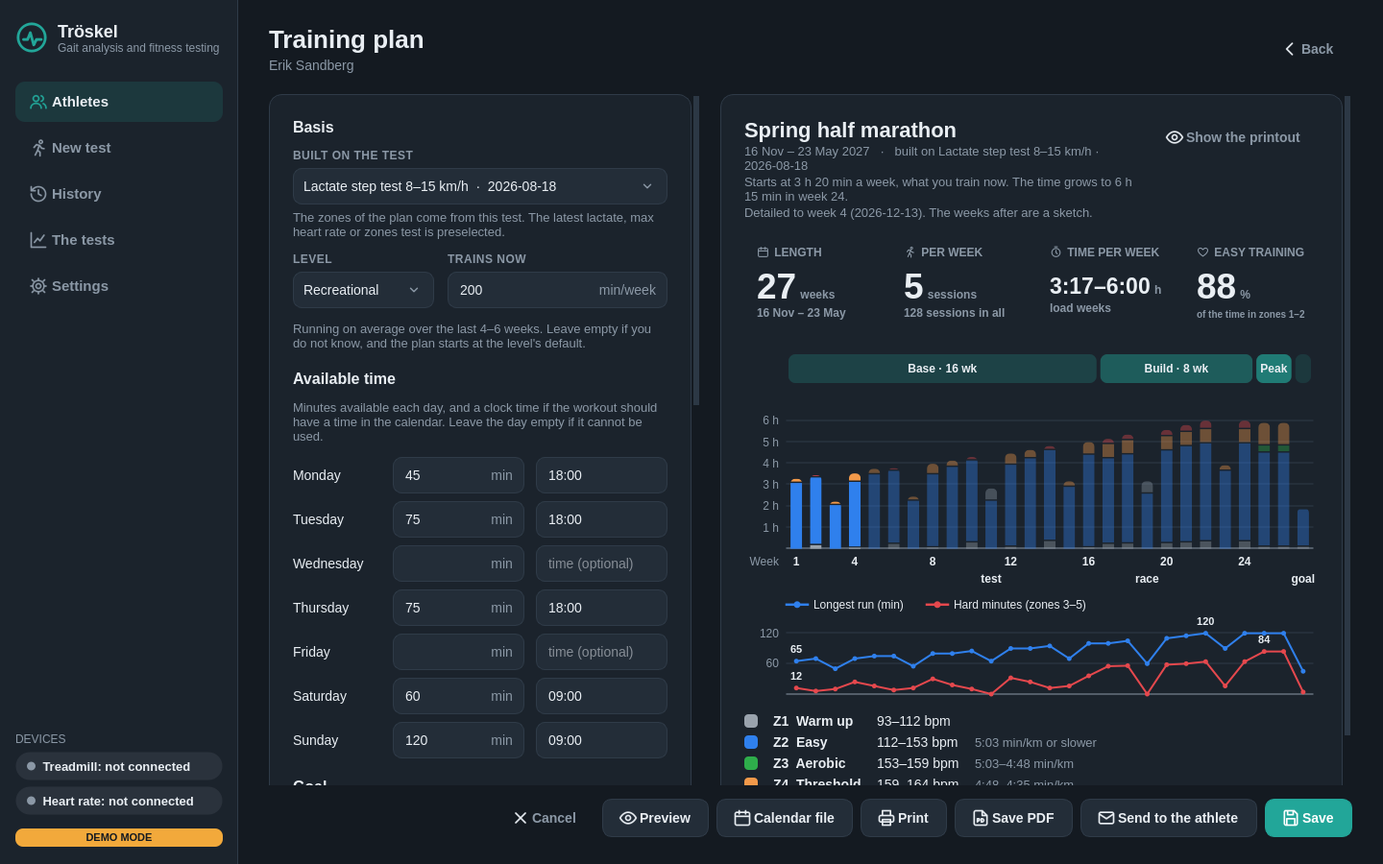
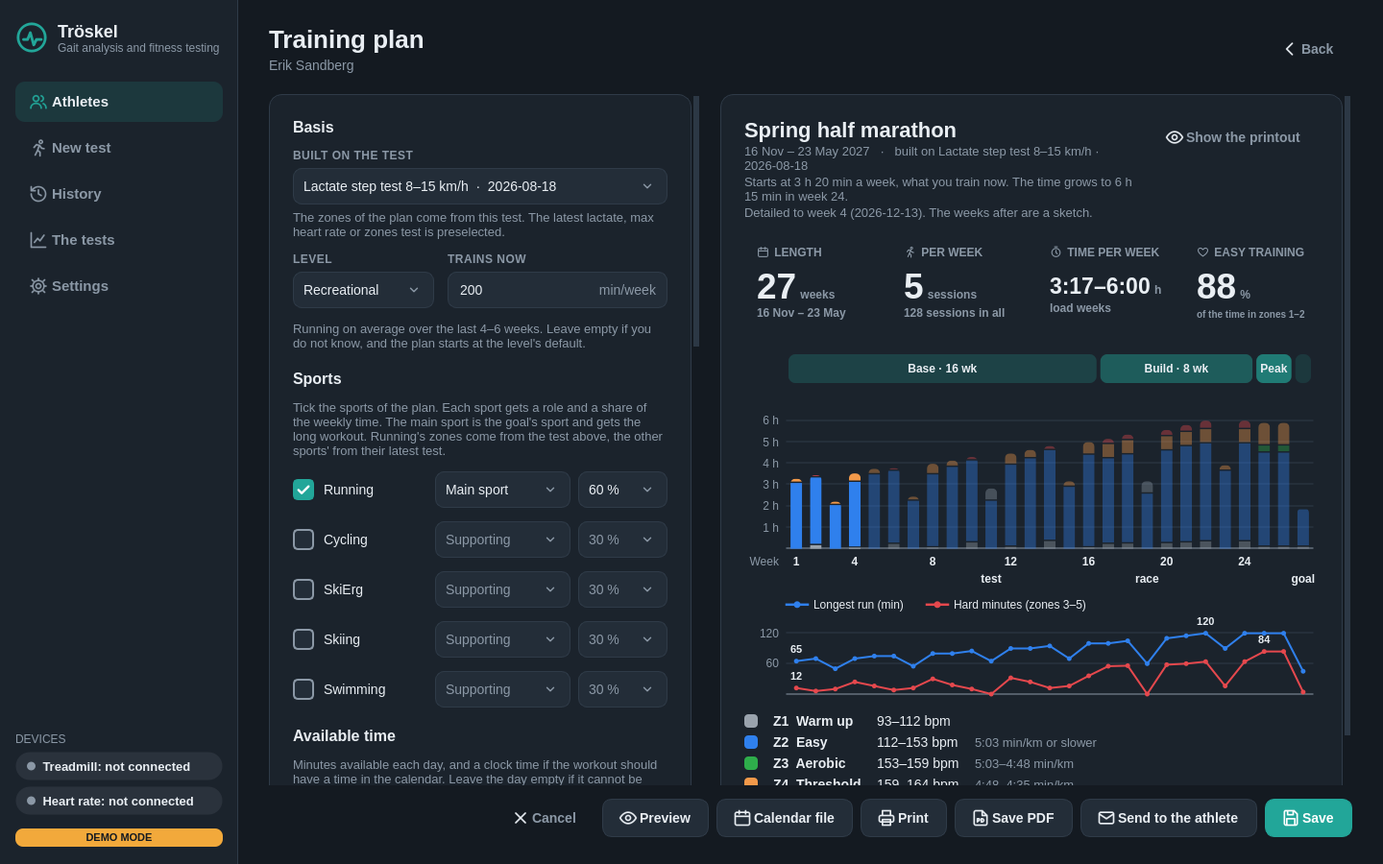
Plan: the handbook and TRANINGSPLAN.md for several sports, the screenshots, and skis borrow only real zones (#666, step 4)
The handbook's page on the training plan has a section on the sports in the form, with a new screenshot
(view traningsschema-idrotter), and says what the printout has with several sports. TRANINGSPLAN.md
describes the form, the capacity per sport and the printout as they are; PROV.md has a row for the
form and the printout with several sports on Windows. The screenshots of the plan page are retaken.

Skis say that they borrow the SkiErg's zones only when the SkiErg has zones to lend, in the form and in
the printout. The weekday's sports button is a themed push button with a menu.

diff --git a/src/lopanalys/report/templates/plan.css b/src/lopanalys/report/templates/plan.css
@@ -92,7 +92,7 @@
 .week-load { margin-top: 3mm; font-size: 8.5pt; color: var(--ink-2); }
 .week-load b { color: var(--ink); font-weight: 600; }
 /* A plan with several sports has the sports table and more zones on the cover: the rest is drawn smaller. */
-.multi .plan-cover .hero { padding-top: 3mm; }
+.multi .plan-cover .hero { padding-top: 1mm; }
 .multi .plan-cover .hero h1 { font-size: 22pt; }
 .multi .plan-cover .hero .athlete { font-size: 13pt; }
 .multi .plan-cover .facts { margin-top: 2.5mm; gap: 1.8mm 7mm; }
@@ -100,6 +100,6 @@
 .multi .plan-cover .tile .value { font-size: 17pt; }
 .multi .plan-cover .tile .label { min-height: 0; }
 .multi .plan-overview { margin-top: 3mm; }
-.multi .plan-chart { height: 52mm; }
+.multi .plan-chart { height: 46mm; }
 .multi .plan-cover .cover-zones { margin-top: 3mm; }
 .multi .plan-cover .plan-promise { margin-top: 3mm; }

diff --git a/src/lopanalys/ui/views/plan.py b/src/lopanalys/ui/views/plan.py
@@ -29,7 +29,7 @@ from typing import Any
 from PySide6.QtCore import QRegularExpression, Qt, Signal
 from PySide6.QtGui import QRegularExpressionValidator
 from PySide6.QtWidgets import (QCheckBox, QComboBox, QDialog, QFileDialog, QGridLayout, QHBoxLayout, QLineEdit, QMenu,
-                               QMessageBox, QToolButton, QVBoxLayout, QWidget)
+                               QMessageBox, QPushButton, QToolButton, QVBoxLayout, QWidget)
 
 from lopanalys.core.i18n import t
 from lopanalys.core.models import Athlete
@@ -195,14 +195,14 @@ class SportRow(QWidget):
         return (self.on, self.role.currentData(), self.share.currentData())
 
 
-class DaySports(QToolButton):
-    """The sports one weekday allows: *Alla* (every sport of the plan) or the ticked ones."""
+class DaySports(QPushButton):
+    """The sports one weekday allows: *Alla* (every sport of the plan) or the ticked ones, from a menu."""
 
     changed = Signal()
 
     def __init__(self, parent: QWidget | None = None) -> None:
         super().__init__(parent)
-        self.setPopupMode(QToolButton.ToolButtonPopupMode.InstantPopup)
+        self.setCursor(Qt.CursorShape.PointingHandCursor)
         self.setToolTip(t("ui.plan.day_sports_tip"))
         self.menu_ = QMenu(self)
         self.actions_: dict[str, Any] = {}
@@ -581,14 +581,14 @@ class PlanView(QWidget):
         for sp, r in self.sport_rows.items():
             text = ""
             if sp != RUNNING and a is not None:
-                if sp in BORROWS:
+                try:
+                    cap = services.sport_capacity(self.ctx.store, a, BORROWS.get(sp, sp))
+                except Exception:
+                    log.exception("reading the sport's test failed")
+                    cap = None
+                if sp in BORROWS and cap is not None and cap.anchors is not None:
                     text = t("ui.plan.sport_basis.borrow", sport=t(f"plan.sport.{BORROWS[sp]}"))
                 else:
-                    try:
-                        cap = services.sport_capacity(self.ctx.store, a, sp)
-                    except Exception:
-                        log.exception("reading the sport's test failed")
-                        cap = None
                     text = _basis_text(cap, sp)
             r.basis.setText(text)
             r._enable()

diff --git a/tools/docs_shots.py b/tools/docs_shots.py
@@ -43,7 +43,7 @@ DEMO_TEST_DATES = (datetime(2026, 4, 14, 8, 30, tzinfo=timezone.utc),
 VIEWS = ("idrottare", "installningar", "installningar-las", "installningar-epost", "testerna", "testerna-cykel",
          "historik",
          "jamforelse", "resultat-laktat", "resultat-zoner", "resultat-klocka", "resultat-vo2max", "skicka",
-         "traningsschema", "traningsschema-mal",
+         "traningsschema", "traningsschema-idrotter", "traningsschema-mal",
          "nytt-test-idrottare", "nytt-test-testtyp", "protokoll-laktat", "protokoll-maxpuls",
          "protokoll-lopteknik", "nytt-test-kamera", "nytt-test-band-och-puls", "nytt-test-kontroll",
          "nytt-test-kontroll-utan-kamera",
@@ -515,6 +515,18 @@ class Studio:
 
     def traningsschema(self) -> Any:
         self._plan()
+        return self.win
+
+    def traningsschema_idrotter(self) -> Any:
+        """The form with running and cycling: the sports' rows and the button per weekday, the plan previewed."""
+        v = self._plan()
+        v.sport_rows["bike"].check.setChecked(True)
+        v.day_sports[1].actions_["bike"].setChecked(True)
+        assert v.preview(), v.error.text()
+        self.wait(100)
+        bar = v.form_scroll.verticalScrollBar()
+        bar.setValue(v.sport_rows["run"].y() - 120)
+        self.wait(300)
         return self.win
 
     def traningsschema_mal(self) -> Any:

diff --git a/tests/ui/test_plan_sports.py b/tests/ui/test_plan_sports.py
@@ -142,7 +142,7 @@ def test_goal_is_in_the_main_sport(demo_window, erik):
 
 def test_the_basis_of_each_sport_is_shown_under_it(demo_window, erik):
     win = demo_window
-    erik.sport_max_hr = {"bike": 184}
+    erik.sport_max_hr = {"bike": 184, "skierg": 186}
     win.open_plan(erik)
     v = win.plan
     rows = v.sport_rows
@@ -150,8 +150,12 @@ def test_the_basis_of_each_sport_is_shown_under_it(demo_window, erik):
         _tick(v, sp)
     assert rows["run"].basis.isHidden()
     assert rows["bike"].basis.text() == "Inget test: zonerna uppskattas ur maxpulsen"
-    assert rows["skierg"].basis.text() == "Inget test och ingen maxpuls: zon och ansträngning"
+    assert rows["skierg"].basis.text() == "Inget test: zonerna uppskattas ur maxpulsen"
     assert rows["ski"].basis.text() == "Lånar zonerna från SkiErg"
+    erik.sport_max_hr = {}                                   # nothing to borrow
+    v._sport_basis()
+    assert rows["ski"].basis.text() == "Inget test och ingen maxpuls: zon och ansträngning"
+    assert rows["skierg"].basis.text() == rows["ski"].basis.text()
     assert rows["swim"].basis.text() == "Inget test i Tröskel: upplevd ansträngning"
     assert all(rows[sp].basis.isVisibleTo(v) for sp in ("bike", "skierg", "ski", "swim"))
 

diff --git a/tests/report/test_report_plan_sports.py b/tests/report/test_report_plan_sports.py
@@ -61,7 +61,7 @@ def test_sports_table_with_share_role_and_test(plans):
     # shares are weights: 60/30/20/10 of 120
     assert "Löpning Huvudidrott 50 % Laktattrappa · 13 november 2026" in cover
     assert "Cykel Stödjande 25 % Inget test" in cover
-    assert "Skidor Stödjande 17 % Lånar zonerna från SkiErg" in cover
+    assert "Skidor Stödjande 17 % Inget test" in cover                # the SkiErg has no test to lend
     assert "Simning Underhåll 8 % Inget test: upplevd ansträngning" in cover
     assert "Bygger på" not in cover                                   # said per sport in the table
     cover = _text(_cover(render_plan_html(plans["run_bike_12"])))

diff --git a/src/lopanalys/report/plan_builder.py b/src/lopanalys/report/plan_builder.py
@@ -230,7 +230,8 @@ def _sports(plan: Plan) -> list[dict[str, Any]]:
     out = []
     for r in roles:
         own = req.own_capacity(r.sport)
-        if own is None and r.sport in BORROWS:
+        lent = req.own_capacity(BORROWS[r.sport]) if r.sport in BORROWS else None
+        if own is None and lent is not None and lent.anchors is not None:
             basis = t("report.plan.sports.borrows", sport=_sport_name(BORROWS[r.sport]))
         elif own is None and r.sport == "swim":
             basis = t("report.plan.sports.effort")

diff --git a/docs/TRANINGSPLAN.md b/docs/TRANINGSPLAN.md
@@ -1,6 +1,6 @@
 # Träningsplanen
 
-*Hur programmet bygger ett träningsschema på testerna: datamodellen, planmotorn, säkerheten och utskriften. Planmotorn, utskriften, kalenderfilen, lagringen och sidan *Träningsschema* i programmet är byggda (se [Nuläget](#nuläget-vad-som-är-byggt)). Motorn fyller flera idrotter med löpningens pass; egna pass och mål per idrott, styrka och formuläret för idrotterna är inte byggda. Målet är ett komplett test- och träningsprogram där idrottaren vet vad varje pass ska innehålla, och där träningen är skräddarsydd efter idrottarens kapacitet och mål.*
+*Hur programmet bygger ett träningsschema på testerna: datamodellen, planmotorn, säkerheten och utskriften. Planmotorn, utskriften, kalenderfilen, lagringen och sidan *Träningsschema* i programmet är byggda (se [Nuläget](#nuläget-vad-som-är-byggt)). Motorn, formuläret och utskriften har flera idrotter, med egna pass och mål för cykel och SkiErg; styrka och simtest är inte byggda. Målet är ett komplett test- och träningsprogram där idrottaren vet vad varje pass ska innehålla, och där träningen är skräddarsydd efter idrottarens kapacitet och mål.*
 
 Allt som är märkt *(ej verifierat)* är skrivet ur minnet.
 
@@ -42,7 +42,7 @@ Kommandot gör ett schema för demolöparen (aldrig en riktig person): PDF, kale
 
 | Del | Läge |
 |---|---|
-| Indata: idrottare med kapacitet per sport, idrotter med roll och andel, tillgänglighet per veckodag, mål (A, B, C) eller längd, nivå och nuvarande veckovolym | Byggt i motorn. Formuläret har bara löpning än |
+| Indata: idrottare med kapacitet per sport, idrotter med roll och andel, tillgänglighet per veckodag, mål (A, B, C) eller längd, nivå och nuvarande veckovolym | Byggt, också i formuläret ([handboken](handbok/traningsschema/traningsschema.md#flera-idrotter)) |
 | Block bakåt från målet, lätta veckor, omtest, volymökning, långpass, kvalitetspass med vila emellan | Byggt, se [Planmotorn](#2-planmotorn) |
 | Passbibliotek för löpning, cykel och SkiErg med texter på svenska och engelska | Byggt. Skidor har SkiErgens pass, simning löpningens med idrottens namn i titeln, se [Passbiblioteket](#passbiblioteket) |
 | Zon till puls och fart ur testet (löpning), watt (cykel), watt och tid per 500 m (SkiErg), uppskattade zoner märkta, schema utan test | Byggt |
@@ -56,7 +56,8 @@ Kommandot gör ett schema för demolöparen (aldrig en riktig person): PDF, kale
 | Ombyggnad av resten av planen (nya pass och ny volym) efter ett omtest, sjukdom och missade pass | Inte byggt (resten av steg P4) |
 | Flera idrotter: veckotiden fördelad efter andelar, hårda dagar och långpass över idrotterna, platser med flera idrotter | Byggt (steg 1 av 4), se [Flera idrotter](#flera-idrotter) |
 | Cykelns och SkiErgens egna pass med mål i watt och tid per 500 m | Byggt (steg 2 av 4) |
-| Styrka, simtest, idrotterna i formuläret och utskriften, återhämtningsblock efter ett mål, passkort | Inte byggt |
+| Idrotterna i formuläret och utskriften: roll och andel, idrotterna per veckodag, en färg per idrott, idrottstabellen, watt i zonerna, veckans tid per idrott och belastningen | Byggt (steg 4 av 4), se [Utskriften](#4-utskriften). Inte provat på Windows ([PROV.md](PROV.md)) |
+| Styrka, simtest, återhämtningsblock efter ett mål, passkort | Inte byggt |
 
 ## 1. Datamodellen
 
@@ -203,7 +204,7 @@ Motorn räknar bakåt från A-målet. Finns flera A-mål slutar planen med det s
 
 ### Flera idrotter
 
-Idrottaren anger idrotterna med en roll och en andel av veckotiden (`PlanRequest.roles`, beslutet i #666 2026-11-15). Utan roller gäller idrotterna i `sports`, och ett schema med en idrott blir detsamma som förut. Formuläret i programmet har inte idrotterna än (steg 4).
+Idrottaren anger idrotterna med en roll och en andel av veckotiden (`PlanRequest.roles`, beslutet i #666 2026-11-15). Utan roller gäller idrotterna i `sports`, och ett schema med en idrott blir detsamma som förut. Coachen väljer idrotterna, rollerna och andelarna i formuläret ([handboken](handbok/traningsschema/traningsschema.md#flera-idrotter)). Ett schema med bara löpning sparas utan roller, som förut.
 
 - **Rollerna:** *huvudidrott*, *stödjande* och *underhåll*, med andelen 60, 30 och 10 % som förval. Andelarna är vikter: 60 och 30 ger två tredjedelar och en tredjedel.
 - **Platserna:** en kärnplats används när den tillåter någon av planens idrotter. En plats för en idrott som planen inte har lämnas tom. Långpassets plats är huvudidrottens längsta plats.
@@ -214,11 +215,12 @@ Idrottaren anger idrotterna med en roll och en andel av veckotiden (`PlanRequest
 - **Löpningen har ett eget tak:** löpminuterna växer högst 10 % över den största löpveckan före, så länge platsen tillåter en annan idrott.
 - **Passen i idrottens egna mallar (steg 2):** veckan fylls med löpningens mallar. När ett pass får sin idrott tar det idrottens mall på samma plats (`library.in_sport`): samma familj och steg, och varje steg exakt lika långt som löpningens, så veckans minuter står kvar. Cykelns och SkiErgens mallar kan ha fler hårda minuter, så taket på en fjärdedel över LT1 prövas igen med dem, och går veckan över stegar motorn ned som förut. Skidor och rullskidor har SkiErgens mallar, simning löpningens med idrottens namn först i titeln (*Simning: lugnt pass*) tills steg 3. Testet och loppet är desamma i alla idrotter. Se [Passbiblioteket](#passbiblioteket).
 - **Zonerna och målen per idrott:** varje idrott får puls ur sitt eget test, och målet i testets belastning (`resolve.targets`): löpning fart i min/km, cykel watt och SkiErg watt och tid per 500 m (Concept2: W = 2,80 / (s/m)³, `core.sport`). Watten avrundas till hela watt. Skidor lånar SkiErgens pulszoner tills ett eget test finns (`models.BORROWS`), men inte watten, och planen säger det. En idrott utan test får zon och ansträngning, och planen säger det, så simning går på upplevd ansträngning (RPE).
+- **Kapaciteten per idrott i programmet:** löpningens ur testet som väljs i formuläret (`services.plan_capacity`), de andra idrotternas ur idrottens senaste laktat-, maxpuls- eller zontest (`services.sport_capacity`), annars ur maxpulsen i idrotten. Skidor och simning har inga tester i Tröskel. Ett nytt test erbjuder omläggning bara i löpning.
 - **Delarna** heter som förut i löpning. I de andra idrotterna heter de *Jämnt* och *Nedvarvning* i stället för *Löpning* och *Nedjogg*, och vilan med lugn rörelse *lugnt 2 min emellan* (`text.part_line`).
 - **Appen** har samma regler i TypeScript och provas mot Python-motorn: tio fall med flera idrotter (bland dem cykel och SkiErg med test, cykel ensam och skidor som huvudidrott), och titel och delar med watt och tid per 500 m för varje mall i två scheman, på svenska och engelska. Appen visar watt och tid per 500 m i passkortet. Länken bär `power_low_w` och `power_high_w` bara i mål som har watt, så ett löpschema ser ut som förut och en äldre app läser det.
 - **Äldre scheman** (motor 4) har löpningens mallar också i cykelpassen. De läses som de är och visas med idrottens namn och cykelns watt.
 
-**Inte byggt (steg 3–4):** styrka som egna pass (0–3 i veckan, aldrig ersatta), simning och ett manuellt simtest (CSS); belastningen i utskriften och som tak för veckan; idrotterna i formuläret, en färg per idrott och idrottstabellen i PDF:en. Inte heller två pass samma dag (en plats per veckodag gäller) eller ett mindre långpass i en stödjande idrott.
+**Inte byggt (steg 3–4):** styrka som egna pass (0–3 i veckan, aldrig ersatta), simning och ett manuellt simtest (CSS); belastningen som tak för veckan. Inte heller två pass samma dag (en plats per veckodag gäller) eller ett mindre långpass i en stödjande idrott.
 
 ### Delmål och planer utan mål
 
@@ -303,10 +305,11 @@ Utskriften byggs i rapportmotorn (`report/plan_builder.py` och mallen `plan.html
 
 | Sida | Innehåll |
 |---|---|
-| **Översikten** (sida 1) | Målet och delmålen, perioden, testet schemat bygger på, tillgänglig tid, fyra nyckeltal, blocken som ett band över en stapel per vecka (tid per zon, med lätt vecka, test och lopp utmärkta) och zonerna med puls och fart |
+| **Översikten** (sida 1) | Målet och delmålen, perioden, testet schemat bygger på, tillgänglig tid, fyra nyckeltal, blocken som ett band över en stapel per vecka (tid per zon, med lätt vecka, test och lopp utmärkta) och zonerna med puls och fart (watt på cykel, watt och tid per 500 m på SkiErg) |
 | **Så läser du schemat** (1–2 sidor) | Blocken med skälen, zontabellen, passen som schemat använder med syfte och känsla, reglerna bakom schemat och ansvarstexten |
-| **Veckoblad** (en sida per vecka med pass) | Sju dagar: tid, passets namn och syfte, delarna med zon, puls och fart, en ruta att bocka av och rader att anteckna på. Veckans syfte överst och veckans tid per zon nederst |
+| **Veckoblad** (en sida per vecka med pass) | Sju dagar: tid, passets namn och syfte, delarna med zon, puls och fart, en ruta att bocka av och rader att anteckna på. Dagens pass i tidsordning. Veckans syfte överst, och nederst veckans tid per zon och belastningen (`Week.load`) |
 
+- **Flera idrotter:** idrottstabellen på översikten (roll, andel som procent av andelarnas summa, och testet med datum, eller att skidor lånar SkiErgens zoner och att simning går på ansträngning) i stället för raden *Bygger på*. Under *Dina zoner* en rad per annan idrott vars test ger watt. En färg per idrott (`core.zone_colors.sport_color`, ingen av dem en zonfärg) bredvid passets namn i stället för zonfärgen, och veckans tid per idrott som en stapel på veckobladet. Resten av översikten ritas lite mindre, så att den ryms på en sida.
 - **Skissen** (sist, bara i ett rullande schema): veckorna utan pass, en rad var med block, typ av vecka, tid och antal pass. I översikten är skissveckornas staplar bleka.
 - **Kalenderfilen** (`plan/ics.py`) har en händelse per pass i veckorna med pass, med passets delar och mål i beskrivningen. En plats med klockslag ger en händelse vid den tiden, annars en heldagshändelse. Händelsens id är passets fasta nyckel, så att en ny import skriver över i stället för att dubblera.
 - **Inte byggt:** passkort (ett pass per halvsida) och utskrift av ett block i taget.

diff --git a/docs/handbok/traningsschema/traningsschema.md b/docs/handbok/traningsschema/traningsschema.md
@@ -1,12 +1,13 @@
 # Träningsschema
 
-*Bygga ett träningsschema på ett test, spara det på idrottaren, förnya det fyra veckor i taget, skriva ut det, ge idrottaren passen som kalenderfil och mejla schemat. Tillbaka till [handboken](../handbok.md).*
+*Bygga ett träningsschema på ett test, i en idrott eller flera, spara det på idrottaren, förnya det fyra veckor i taget, skriva ut det, ge idrottaren passen som kalenderfil och mejla schemat. Tillbaka till [handboken](../handbok.md).*
 
 <!-- toc -->
 ## Innehåll
 
 - [Öppna träningsschemat](#öppna-träningsschemat)
 - [Fyll i formuläret](#fyll-i-formuläret)
+  - [Flera idrotter](#flera-idrotter)
   - [Vad testet ger schemat](#vad-testet-ger-schemat)
 - [Förhandsvisa schemat](#förhandsvisa-schemat)
 - [Förnya schemat](#förnya-schemat)
@@ -32,17 +33,32 @@ Har idrottaren redan ett schema visas det. Annars är formuläret tomt, och det 
 
 | Del | Fält | Vad det styr |
 |---|---|---|
-| *Underlag* | *Bygger på testet* | Testet som zonerna räknas ur. Välj *Inget test* för ett schema med zon och ansträngning, utan puls och fart. Har idrottaren en maxpuls men inget test blir zonerna uppskattade |
+| *Underlag* | *Bygger på testet* | Löpningens test, som zonerna räknas ur. Välj *Inget test* för ett schema med zon och ansträngning, utan puls och fart. Har idrottaren en maxpuls men inget test blir zonerna uppskattade. Fältet syns bara när löpning är med i schemat |
 | | *Nivå* | *Nybörjare*, *Motionär* eller *Vältränad*. Styr var schemat börjar och hur många hårda pass en vecka får |
 | | *Tränar nu* | Minuter löpning i veckan i snitt de senaste 4–6 veckorna. Schemat börjar där. Tomt betyder nivåns förval (2, 3 eller 5 timmar), men aldrig mer än 70 % av den tillgängliga tiden |
+| *Idrotter* | En rad per idrott | Idrotterna i schemat, med roll och andel av veckans tid, se [Flera idrotter](#flera-idrotter) |
 | *Tillgänglig tid* | Minuter per veckodag | Så länge idrottaren kan träna den dagen, 20–480 minuter. En tom dag får inget pass |
 | | Klockslag | Valfritt. Passet får den tiden i kalenderfilen, annars blir det en heldagshändelse |
+| | Idrotterna den dagen | Bara med flera idrotter: *Alla* eller de idrotter som går den dagen, till exempel bara cykel en dag utan löpband |
 | *Mål* | *Schemat slutar med ett mål (lopp)* | Namn, datum, distans och måltid. Schemat räknas bakåt från loppet |
 | | *Lägg till delmål* | Ett *Delmål* (till exempel ett seedningslopp) får en lättare vecka runt sig. Ett *Träningslopp* ersätter ett av veckans hårda pass |
 | | *Inget mål: ange längd* | Antal veckor, minst 4. Schemat slutar med ett nytt test |
 | | *Startdatum* | Schemat börjar första måndagen från och med datumet. Tomt betyder i dag |
 
 Datum skrivs som `2027-05-22` eller väljs i kalendern bredvid fältet.
+
+### Flera idrotter
+
+Under *Idrotter* finns löpning, cykel, SkiErg, skidor och simning. Löpning är förvald som huvudidrott. Kryssa i de idrotter schemat ska ha och välj för var och en:
+
+- **Roll:** *Huvudidrott* (målets idrott, som får långpasset och testet), *Stödjande* eller *Underhåll* (högst ett lugnt pass i veckan). Det finns en huvudidrott: väljer du en ny blir den förra stödjande.
+- **Andel:** hur stor del av veckans tid idrotten får, i tiotal procent. Rollen fyller i 60, 30 eller 10 %. Andelarna räknas mot varandra, så 60 och 30 ger två tredjedelar och en tredjedel.
+
+Under varje idrott utom löpning står vad zonerna bygger på: idrottens senaste laktat-, maxpuls- eller zontest, annars maxpulsen i idrotten (uppskattade zoner), annars bara zon och ansträngning. Skidor lånar SkiErgens zoner, och simning går på upplevd ansträngning eftersom Tröskel inte har något simtest. Med flera idrotter får varje veckodag en knapp för idrotterna den dagen, där *Alla* är förvalt.
+
+![Formuläret med löpning som huvudidrott och cykel som stödjande idrott, och tisdagen bara för cykel](images/idrotter.png)
+
+Hur motorn fördelar passen över idrotterna står i [Träningsplanen → Flera idrotter](../../TRANINGSPLAN.md#flera-idrotter).
 
 ### Vad testet ger schemat
 
@@ -66,11 +82,18 @@ Tryck *Förhandsvisa*. Översikten till höger visar:
 - fyra rutor: *Längd*, *Pass i veckan*, *Tid i veckan* (i belastningsveckorna, från den första till den största) och *Lugn träning* (andelen av tiden i zon 1–2),
 - blocken som ett band över en stapel per vecka, med tiden per zon i klockans färger. *lätt*, *test*, *lopp* och *mål* står under veckorna. Veckorna i skissen har bleka staplar,
 - under staplarna två linjer med en egen axel i minuter: **det längsta passet** varje vecka (blå) och **de hårda minuterna**, tiden i zon 3–5 (röd). Siffran står vid den första veckan och vid den största. Linjerna visar ökningen även när staplarna är lika höga, till exempel när dagarna inte rymmer mer tid och schemat i stället gör passen längre och hårdare,
-- zonerna med puls och fart ur testet.
+- zonerna med puls och fart ur testet, i huvudidrotten. Är huvudidrotten cykel eller SkiErg står watt, och för SkiErgen också tiden per 500 m.
 
 Schemat börjar på det idrottaren tränar nu och växer mot den tillgängliga tiden, högst nivåns takt (5, 7 eller 8 %) per belastningsvecka. Ligger starten nära den tillgängliga tiden växer det långsammare, så att hela tiden nås först i slutet av uppbyggnaden. Tränar idrottaren mer än dagarna rymmer börjar schemat på all tillgänglig tid och står still i tid; ökningen ligger då i passen. Samma diagram med linjerna finns på utskriftens första sida.
 
-Saknas något i formuläret står det i rött under översikten, till exempel *Välj nivå*. Ändrar du formuläret efter en förhandsvisning säger en gul rad att översikten inte visar ändringarna än. *Visa utskriften* öppnar hela utskriften: översikten, läsanvisningen, ett blad per vecka med pass och sist skissen över veckorna efter.
+Saknas något i formuläret står det i rött under översikten, till exempel *Välj nivå*. Ändrar du formuläret efter en förhandsvisning säger en gul rad att översikten inte visar ändringarna än. *Visa utskriften* öppnar hela utskriften: översikten, läsanvisningen, ett blad per vecka med pass och sist skissen över veckorna efter. Veckobladet har dagens pass i tidsordning och veckans belastning längst ned (minuter × zon × idrott, för att jämföra veckorna).
+
+Med flera idrotter har utskriften också:
+
+- **en tabell över idrotterna** på första sidan: roll, andel av tiden och testet zonerna bygger på, med datum,
+- **en rad per idrott med watt under *Dina zoner***: cykelns watt, och SkiErgens watt och tid per 500 m, zon för zon,
+- **en färg per idrott** bredvid passets namn på veckobladet. Färgerna skiljer sig från zonernas,
+- **veckans tid per idrott** som en stapel längst ned på veckobladet.
 
 Hur schemat räknas fram (block, lätta veckor, andelen lugn träning) står i [Träningsplanen](../../TRANINGSPLAN.md#2-planmotorn).
 
@@ -127,7 +150,7 @@ Efteråt står det bredvid knappen när schemat senast skickades. Programmet ant
 
 Schemat anger varje pass i en zon. Pulsen och farten räknas ur testet. Rättar du ett laktatvärde i testet som schemat bygger på följer målen med nästa gång schemat öppnas.
 
-När idrottaren har gjort ett nytt laktattest, maxpulstest eller zontest erbjuder programmet att lägga om schemat, på två ställen:
+När idrottaren har gjort ett nytt laktattest, maxpulstest eller zontest i löpning erbjuder programmet att lägga om schemat, på två ställen:
 
 - **På resultatet av det nya testet:** raden under rubriken säger att idrottaren har ett schema som bygger på ett äldre test, med knappen *Lägg om schemat*.
 - **På sidan *Träningsschema*:** en gul rad överst säger att det finns ett nyare test, med samma knapp.
@@ -143,4 +166,4 @@ Skriv ut schemat igen eller spara en ny kalenderfil efteråt, så får idrottare
 
 ## Det som inte är provat
 
-Utskriften på en riktig skrivare, kalenderfilen i en telefon och schemat med e-post till en riktig inkorg är inte provade än. Läget står i [PROV.md](../../PROV.md).
+Utskriften på en riktig skrivare, kalenderfilen i en telefon och schemat med e-post till en riktig inkorg är inte provade än, och inte heller formuläret och utskriften med flera idrotter på Windows. Läget står i [PROV.md](../../PROV.md).

diff --git a/docs/PROV.md b/docs/PROV.md
@@ -193,6 +193,7 @@ Analysen är byggd och provad mot syntetiska cyklister och stakare, där sanning
 | Riktiga bilder | Löpteknikrapport från en riktig GoPro-film | Stillbilderna skarpa i utskrift, ringarna syns, bildtexterna stämmer | |
 | Träningsschemat | Sidan *Träningsschema* på gymdatorn: fyll i, förhandsvisa, spara som PDF och skriv ut | Förstasidan ryms på en sida, varje vecka har ett eget blad utan avhuggna rader, zonfärgerna syns | |
 | Kalenderfilen | Spara *Kalenderfil* från sidan *Träningsschema* och öppna den i en iPhone och en Android-telefon | Passen hamnar på rätt dag och klockslag, med å, ä och ö rätt i beskrivningen. En ny import dubblerar inget | |
+| Träningsschemat med flera idrotter | Sidan *Träningsschema* på gymdatorn: kryssa i cykel och SkiErg, välj roller och andelar, begränsa en dag till cykel, förhandsvisa, spara, öppna igen och spara som PDF | Raden *Idrotter* och knappen per dag ryms i formuläret, allt läses tillbaka, förstasidan med idrottstabellen och watten under *Dina zoner* ryms på en sida och idrottsfärgerna syns i utskriften | |
 | Schemat med e-post | *Skicka till idrottaren* på sidan *Träningsschema* till en egen inkorg, och öppna bilagorna i en iPhone och en Android-telefon | Mejlet kommer fram (inte i skräpposten) med PDF:en och kalenderfilen. Kalenderfilen går att öppna ur mejlet med anvisningen i texten | |
 | Om testerna | Sidan *Testerna*: skriv ut *Om testerna* och spara som PDF, för *Löpning*, *Cykel* och *SkiErg* | Varje sport får plats på en A4, texten går att läsa på papper | |
 
